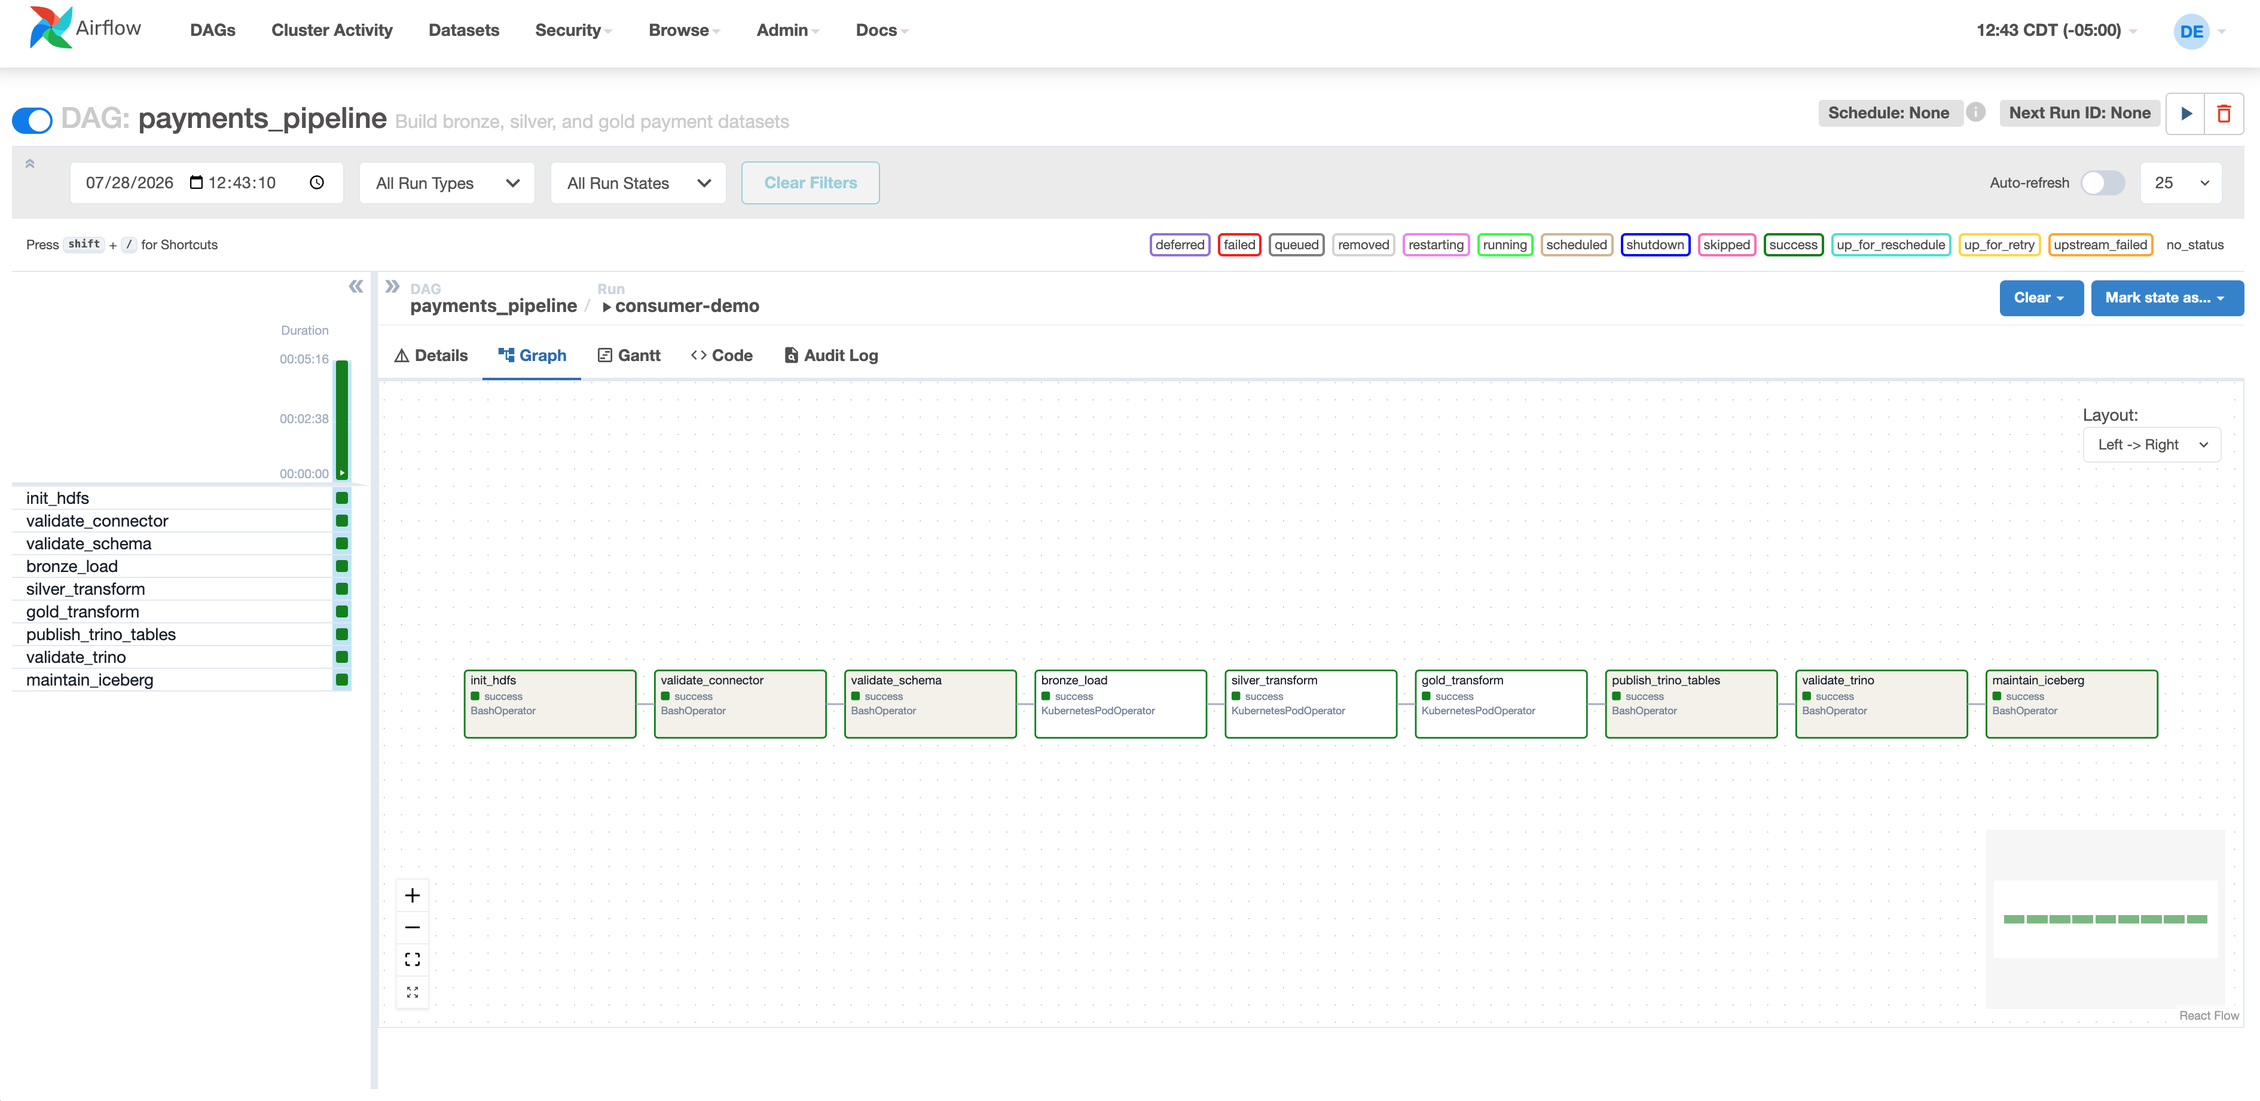
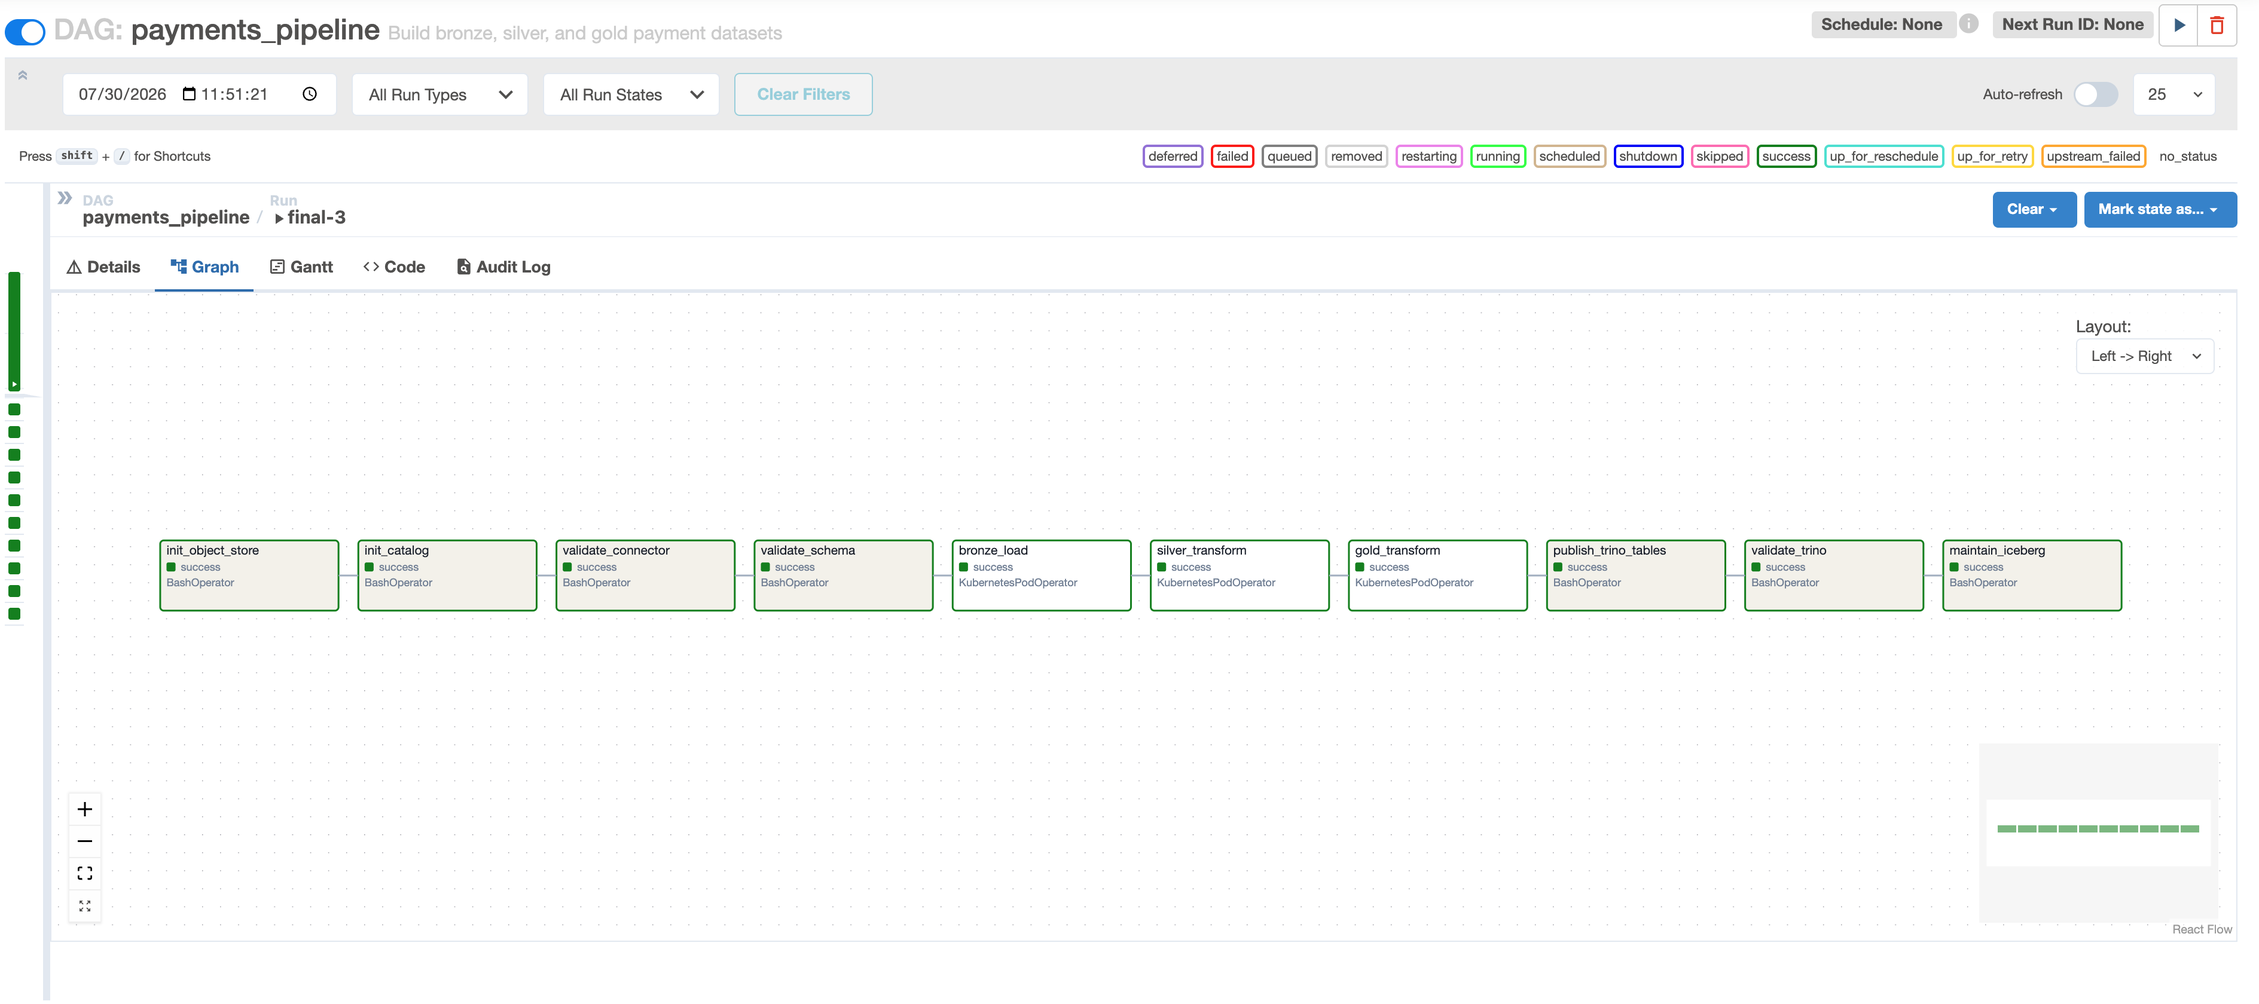
Bring the docs back in line with the code
The migration doc claimed PVCs did not improve; they now go 6 to 5, and the
correction is written up rather than quietly edited in, because it only surfaced
after the migration had been called finished. Three new entries in "what broke
on the way": Compose could not start, the DAG was paused, and Trino had no
storage credentials -- the last found only by running it, which is why a Compose
run is now part of the verification checklist.

architecture-lakehouse.md ticks the Phase 4 checklist and adds what the
checklist did not catch: two items marked done on half-finished edits.

production-readiness.md cited hdfs.yaml as the one manifest setting a
securityContext and listed HDFS among the volumes with no backup path. Both name
things deleted in Phase 4, in a document that promises every claim is checkable
against the code right now.

design.md said seven tasks and listed eight, omitting validate_schema and
maintain_iceberg; the DAG has ten. README and index.html said nine. The
screenshot is recaptured against the current task list.

The local overlay still carried warehouse=hdfs://namenode:9000/warehouse in a
ConfigMap nothing reads. Deleted rather than corrected: an unread value that
cannot be wrong in any way that matters is not worth keeping accurate.

diff --git a/docs/index.html b/docs/index.html
@@ -214,7 +214,7 @@ curl 'http://localhost:8000/v1/metrics/summary'
     <div class="shots">
       <div class="card">
         <a class="zoom" href="images/airflow-payments-pipeline.png" target="_blank" rel="noopener" aria-label="Open full-size image">
-          <img src="images/airflow-payments-pipeline.png" alt="Airflow graph view of a successful payments_pipeline run on Kubernetes — nine tasks green, with bronze_load, silver_transform and gold_transform running as KubernetesPodOperator and the rest as BashOperator">
+          <img src="images/airflow-payments-pipeline.png" alt="Airflow graph view of a successful payments_pipeline run on Kubernetes — ten tasks green, with bronze_load, silver_transform and gold_transform running as KubernetesPodOperator and the rest as BashOperator">
         </a>
         <p class="caption"><strong>Airflow</strong> — a full run on the cluster. The three Spark tasks are <code>KubernetesPodOperator</code> pods; every other task talks HTTP to a service name that resolves under Compose and Kubernetes alike.</p>
       </div>

diff --git a/docs/migration-storage-catalog.md b/docs/migration-storage-catalog.md
@@ -34,14 +34,22 @@ StatefulSet in `k8s/base`.
 | Workloads (Deployments + StatefulSets) | 16 | **15** | −1 |
 | Memory requests | 6,304 Mi (6.16 GiB) | **4,704 Mi (4.59 GiB)** | **−1,600 Mi** |
 | Memory limits | 12,096 Mi (11.81 GiB) | **9,024 Mi (8.81 GiB)** | **−3,072 Mi** |
-| PersistentVolumeClaims | 6 | 6 | none |
+| PersistentVolumeClaims | 6 | **5** | −1 |
 | Pods running | 18 | 18 | none |
 | Resident memory, kind node | 6.12 GiB | 7.22 GiB | +1.1 GiB |
 
-Two numbers deserve honesty rather than spin.
+**The PVC number was wrong until after the migration was declared finished.** This page previously
+said six before and six after, because Spark's streaming checkpoints had been given a claim of
+their own while file IO briefly went through `HadoopFileIO`. When `S3FileIO` came back, checkpoints
+moved to `s3a://checkpoints/` and the claim stopped being written — but stayed mounted in all three
+Spark pods. Mounting it after a full green run showed an empty directory while MinIO held the real
+bronze and silver offset logs, so it was deleted. HDFS's two claims go, MinIO adds one, and the
+checkpoint claim goes with them: six to five.
 
-**PVC count did not improve.** HDFS's two go, MinIO adds one, and Spark's streaming checkpoints
-were briefly given one of their own before that approach was abandoned. Six before, six after.
+Removing it takes a scheduling constraint with it. The claim was `ReadWriteOnce`, and all three
+Spark pods mounted it, so all three had to land on the same node. On a single-node kind cluster
+that is invisible; on a real cluster it is the difference between three pods that can be scheduled
+anywhere and three that cannot.
 
 **Resident memory went up, not down.** 6.12 GiB to 7.22 GiB, measured on a cluster that had just
 finished a pipeline run rather than one sitting idle, so the two figures are not like-for-like. The
@@ -75,10 +83,10 @@ for the first time.
 **`metastore-db` is not removed.** It is reused as the catalog's database and renamed `catalog-db`;
 the Postgres instance survives, only its tenant changes.
 
-**PVC count does not improve: 6 before, 6 after.** Two go with HDFS, MinIO adds one, and Spark's
-streaming checkpoints need one of their own once they can no longer live in a catalog-governed
-bucket. Stating it plainly because the earlier draft of this page claimed a reduction that the
-arithmetic does not support.
+**PVC count: 6 before, 5 after.** Two go with HDFS and MinIO adds one, which is a wash; the
+reduction comes from deleting the checkpoint claim that a since-abandoned design had introduced.
+Worth stating carefully, because an earlier draft of this page claimed a reduction the arithmetic
+did not support, and the correction below only arrived after the migration was verified.
 
 ## What was deleted
 
@@ -92,6 +100,9 @@ Beyond the three workloads, the migration removed a surprising amount of inciden
 - The committed PostgreSQL JDBC driver, present only so the metastore could reach its database
 - `config/trino/catalog/hive.properties`
 - The `hdfs-init` Job and `scripts/init_hdfs.py`
+- `k8s/base/spark-checkpoints.yaml` and the matching Compose volume — a 2 Gi claim mounted by all
+  three Spark pods, left over from an intermediate design and never written again once checkpoints
+  moved to their own bucket
 
 The `overrides/` deletion is worth noting on its own: that directory exists to hold files that must
 genuinely differ between Compose and Kubernetes, and HDFS accounted for a third of it.
@@ -192,6 +203,48 @@ warehouse *creation* body and stores `true` anyway; the same field on
 `POST /warehouse/{id}/storage` is honoured. `scripts/init_iceberg_catalog.py` now applies the
 storage profile as an explicit second step rather than trusting the create call.
 
+**After Phase 5 — the runtime nobody re-ran.** Every phase above was verified on Kubernetes, and
+Kubernetes was green. Docker Compose was not: deleting the `hive-metastore` service in Phase 4 left
+`trino` depending on it, and Compose refuses to load a project whose `depends_on` names an undefined
+service. `docker compose config` exited 1, which means `docker compose up` started *nothing* — not
+a degraded quickstart, an absent one. The replacement was missing too: there was no `iceberg-rest`
+service at all, no storage credentials on any Airflow service, and no `CATALOG_ENCRYPTION_KEY` in
+`.env.example`, while the README claimed a task could address `iceberg-rest:8181` in either runtime.
+
+The migration was declared complete on the strength of a green cluster, and a green cluster only
+proves the cluster. `tests/test_compose_manifest.py` now asserts the parts that had nothing watching
+them: every `depends_on` names a defined service, every declared volume is mounted, every `${VAR}`
+appears in `.env.example`, and every Kubernetes workload has a Compose service of the same name.
+
+**The documented trigger command did nothing on a fresh cluster.** Airflow pauses new DAGs by
+default, and a paused DAG *accepts* `airflow dags trigger` — it records the run, returns success,
+and never schedules it. The run sits in `queued` with nothing logged as an error anywhere. Every
+earlier verification had unpaused the DAG by hand in the web UI, during a screenshot session, and
+nothing in the repo recorded that step; so the README's own trigger command, run against a cluster
+built from scratch, produced a run that queued for thirty minutes. The DAG now sets
+`is_paused_upon_creation=False`, which is safe precisely because `schedule=None` means nothing runs
+until something triggers it.
+
+This one is worth dwelling on: it is the only failure here that produced *no error at all*. A
+dangling `depends_on` exits 1 and a missing ConfigMap wedges a pod, but a paused DAG looks exactly
+like a slow one.
+
+**Trino had no storage credentials on Compose, and only running it could show that.** Everything
+above was found by reading. This one was not. `config/trino/catalog/iceberg.properties` carries the
+endpoint, region, and path-style flag but deliberately no secrets — Trino's native S3 client reads
+`AWS_ACCESS_KEY_ID` and `AWS_SECRET_ACCESS_KEY` from its environment, which `k8s/base/trino.yaml`
+supplies and the Compose service did not. The failure was well disguised: Spark wrote bronze,
+silver, and gold without complaint, `publish_trino_tables` passed, and then every read failed with
+
+    io.trino.spi.TrinoException: Error processing metadata for table analytics.payments_bronze
+
+which reads like catalog corruption rather than a missing key. The guard derives its expectation
+from the manifests instead of restating it: whichever workloads Kubernetes gives `AWS_*`, the
+Compose services of the same name must have them too.
+
+Both runtimes are now verified end to end — the same 50,004 reconciled through Trino on a
+from-scratch Kubernetes cluster and on a from-scratch Compose stack.
+
 **Operational note worth knowing.** Trino resolves the warehouse prefix from `/v1/config` once, at
 catalog initialisation. Deleting and recreating a warehouse under a running Trino leaves it holding
 a stale UUID, and every query fails with `Schema 'analytics' does not exist`. Engines must be
@@ -206,6 +259,8 @@ The migration is considered complete only when the same checks that passed on HD
 - `bronze = silver = gold = 50,004` reconciled through Trino across 8,764 hourly buckets
 - The gold API answering with the same 50,004 and its snapshot-keyed cache registering hits
 - `pytest` green with no cluster running
+- **The same run on Docker Compose**, from `docker compose up` through the identical reconciliation.
+  Added after a green Kubernetes cluster turned out to prove only the cluster.
 
 Reconciliation at the identical row count is the point. The data is rebuilt from source rather than
 migrated, so matching the pre-migration number is what proves the rebuild was faithful.

diff --git a/docs/architecture-lakehouse.md b/docs/architecture-lakehouse.md
@@ -113,35 +113,56 @@ Streaming checkpoints are plain object-storage paths rather than Iceberg tables.
 | **`datanode`** | StatefulSet | **delete** |
 | **`hive-metastore`** | Deployment | **delete** |
 
-**15 workloads after.** PVC count stays at 6: HDFS's two go, MinIO's one arrives, and the rest are
-unchanged.
+**15 workloads after.** PVCs go from 6 to 5: HDFS's two go, MinIO's one arrives, and the Spark
+checkpoint claim is deleted once checkpoints move to their own bucket.
 
 ## Phase 4 deletion checklist
 
 Derived from the table above rather than from grepping and hoping.
 
 **Manifests and config to remove**
-- [ ] `k8s/base/hdfs.yaml`, `k8s/base/hive-metastore.yaml`
-- [ ] `k8s/base/overrides/hdfs-site.xml` — leaves `overrides/` with two files
-- [ ] `config/hadoop/` (`core-site.xml`, `hdfs-site.xml`)
-- [ ] `config/hive-metastore/` and its image build
-- [ ] `config/trino/catalog/hive.properties`
-- [ ] `drivers/postgresql-*.jar` — only the metastore needed it
-- [ ] `scripts/init_hdfs.py` and its tests
-- [ ] Compose services `namenode`, `datanode`, `hive-metastore`; volumes `namenode_data`, `datanode_data`
-- [ ] `hadoop-config` ConfigMap generator, and the Spark pods' mounts of it
+- [x] `k8s/base/hdfs.yaml`, `k8s/base/hive-metastore.yaml`
+- [x] `k8s/base/overrides/hdfs-site.xml` — leaves `overrides/` with two files
+- [x] `config/hadoop/` (`core-site.xml`, `hdfs-site.xml`)
+- [x] `config/hive-metastore/` and its image build
+- [x] `config/trino/catalog/hive.properties`
+- [x] `drivers/postgresql-*.jar` — only the metastore needed it
+- [x] `scripts/init_hdfs.py` and its tests
+- [x] Compose services `namenode`, `datanode`, `hive-metastore`; volumes `namenode_data`, `datanode_data`
+- [x] `hadoop-config` ConfigMap generator, and the Spark pods' mounts of it
 
 **Renames**
-- [ ] `metastore-db` → `catalog-db`; `METASTORE_*` secret keys → `CATALOG_*`
+- [x] `metastore-db` → `catalog-db`; `METASTORE_*` secret keys → `CATALOG_*`
 
 **Guards that must be updated in the same change**
-- [ ] `scripts/k8s_verify.sh` arrays — the drift test fails otherwise
-- [ ] `scripts/validate_k8s_manifests.py` `REQUIRED_OBJECTS`
-- [ ] `tests/test_validate_k8s_manifests.py` — HDFS headless-Service assertions
-- [ ] `tests/test_pipeline_runtime.py` — the `init_hdfs` unit tests
+- [x] `scripts/k8s_verify.sh` arrays — the drift test fails otherwise
+- [x] `scripts/validate_k8s_manifests.py` `REQUIRED_OBJECTS`
+- [x] `tests/test_validate_k8s_manifests.py` — HDFS headless-Service assertions
+- [x] `tests/test_pipeline_runtime.py` — the `init_hdfs` unit tests
 
-**Docs** — `README.md` (16 mentions), `docs/kubernetes.md` (26), `docs/design.md` (11),
-`docs/index.html` (2), and `docs/images/architecture-overview.svg` must be redrawn.
+**Docs** — [x] `README.md`, `docs/kubernetes.md`, `docs/design.md`, `docs/index.html`, and
+`docs/images/architecture-overview.svg` redrawn.
+
+### What the checklist did not catch
+
+Two items were ticked on a half-finished edit, and both survived to the end of Phase 5:
+
+**The Compose services were deleted; `trino`'s `depends_on: hive-metastore` was not.** Compose
+rejects a project whose `depends_on` names an undefined service, so `docker compose config` exited
+1 and `docker compose up` could not start *anything*. The whole migration was verified on
+Kubernetes, so nothing exercised the other runtime. Worse, the replacement was never added either
+— Compose had no `iceberg-rest` service at all, while the README claimed the two runtimes resolved
+the same service names.
+
+**The `spark-checkpoints` volume outlived its reason.** It was introduced when file IO briefly went
+through `HadoopFileIO` and checkpoints could not live on S3. Once `S3FileIO` came back and
+`checkpoint_path()` returned `s3a://checkpoints/…`, the claim stayed mounted at `/checkpoints` in
+all three Spark pods and was never written again — confirmed by mounting it after a full green run
+and finding an empty directory, while MinIO held the real bronze and silver offset logs.
+
+Both are the same failure as every other drift in this project: a reference with nothing asserting
+it still pointed at something real. The guards in `tests/test_compose_manifest.py` now assert both —
+every `depends_on` names a defined service, and every declared volume is mounted by some workload.
 
 ## Known constraint, carried forward
 

diff --git a/README.md b/README.md
@@ -286,12 +286,12 @@ The main DAG is `airflow/dags/payments_pipeline.py`, and it orchestrates **both*
 
 1. `init_object_store` — creates the warehouse and checkpoint buckets over the **S3 API**
 2. `init_catalog` — bootstraps the Iceberg REST catalog and registers the warehouse
-2. `validate_connector` — Debezium connector and task are `RUNNING`
-3. `validate_schema` — source schema matches what the pipeline expects
-4. `bronze_load` · `silver_transform` · `gold_transform` — the Spark medallion
-5. `publish_trino_tables` — the Iceberg tables are visible to Trino (and **fails** if one is missing)
-6. `validate_trino` — bronze = silver = gold reconciliation
-7. `maintain_iceberg` — compaction, snapshot expiry, orphan cleanup
+3. `validate_connector` — Debezium connector and task are `RUNNING`
+4. `validate_schema` — source schema matches what the pipeline expects
+5. `bronze_load` · `silver_transform` · `gold_transform` — the Spark medallion
+6. `publish_trino_tables` — the Iceberg tables are visible to Trino (and **fails** if one is missing)
+7. `validate_trino` — bronze = silver = gold reconciliation
+8. `maintain_iceberg` — compaction, snapshot expiry, orphan cleanup
 
 Every task except the three Spark ones is **runtime-neutral**: it speaks HTTP to a service name
 (`trino:8080`, `minio:9000`, `iceberg-rest:8181`) that resolves as a Compose service name and a Kubernetes Service
@@ -435,7 +435,7 @@ This project is easiest to understand when viewed from three angles:
 
 Airflow shows the pipeline running from source validation through bronze, silver, gold, and downstream validation.
 
-![Airflow graph view of a successful payments_pipeline run on Kubernetes — nine tasks green, with bronze_load, silver_transform and gold_transform running as KubernetesPodOperator and the rest as BashOperator](docs/images/airflow-payments-pipeline.png)
+![Airflow graph view of a successful payments_pipeline run on Kubernetes — ten tasks green, with bronze_load, silver_transform and gold_transform running as KubernetesPodOperator and the rest as BashOperator](docs/images/airflow-payments-pipeline.png)
 
 Grafana shows the seeded demo data as business-facing metrics, including volume, authorization rate, refunds, and payment method mix.
 

diff --git a/docs/production-readiness.md b/docs/production-readiness.md
@@ -7,7 +7,8 @@ each is stated precisely enough that you can check it against the code right now
 
 ## Security
 
-- **Containers run as root.** Only `hdfs.yaml` sets a `securityContext`; nothing declares
+- **Containers run as root.** No manifest sets a `securityContext` at all — the one that did was
+  `hdfs.yaml`, deleted in the storage migration; nothing declares
   `runAsNonRoot`, `readOnlyRootFilesystem`, or drops capabilities, so the namespace would fail the
   Pod Security Standards *restricted* profile. Fixing it properly means finding the right UID for
   each upstream image and testing every volume mount against it — worth doing on a cluster you can
@@ -34,9 +35,11 @@ each is stated precisely enough that you can check it against the code right now
   `CREATE TABLE IF NOT EXISTS` will not add a column Debezium starts emitting. Production would
   enforce an explicit contract where data enters, and fail loudly instead of writing nulls.
 
-- **No backup or restore path.** Postgres, the metastore database, and HDFS all sit on
-  `volumeClaimTemplates` with no snapshot schedule and no tested restore. For a local cluster the
-  recovery procedure is `k8s_down.sh` and rebuild; that is not a recovery procedure.
+- **No backup or restore path.** Postgres, the catalog database, and Kafka sit on
+  `volumeClaimTemplates`, and MinIO on a PVC, with no snapshot schedule and no tested restore. The
+  catalog database is the one that stings: losing it loses every table's metadata pointer while the
+  data files sit intact in object storage. For a local cluster the recovery procedure is
+  `k8s_down.sh` and rebuild; that is not a recovery procedure.
 
 ## Not on this list
 

diff --git a/docs/design.md b/docs/design.md
@@ -101,11 +101,11 @@ See [kubernetes.md](kubernetes.md) for commands, current verification steps, and
 
 ## Orchestration
 
-The Airflow DAG `payments_pipeline` runs the seven tasks in sequence:
+The Airflow DAG `payments_pipeline` runs the ten tasks in sequence:
 
 ```
-init_object_store → init_catalog → validate_connector → bronze_load → silver_transform
-  → gold_transform → publish_trino_tables → validate_trino
+init_object_store → init_catalog → validate_connector → validate_schema → bronze_load
+  → silver_transform → gold_transform → publish_trino_tables → validate_trino → maintain_iceberg
 ```
 
 The DAG has no schedule (`schedule=None`) and is triggered manually or via the Airflow API. `max_active_runs=1` prevents concurrent runs from conflicting on the shared Iceberg tables.
